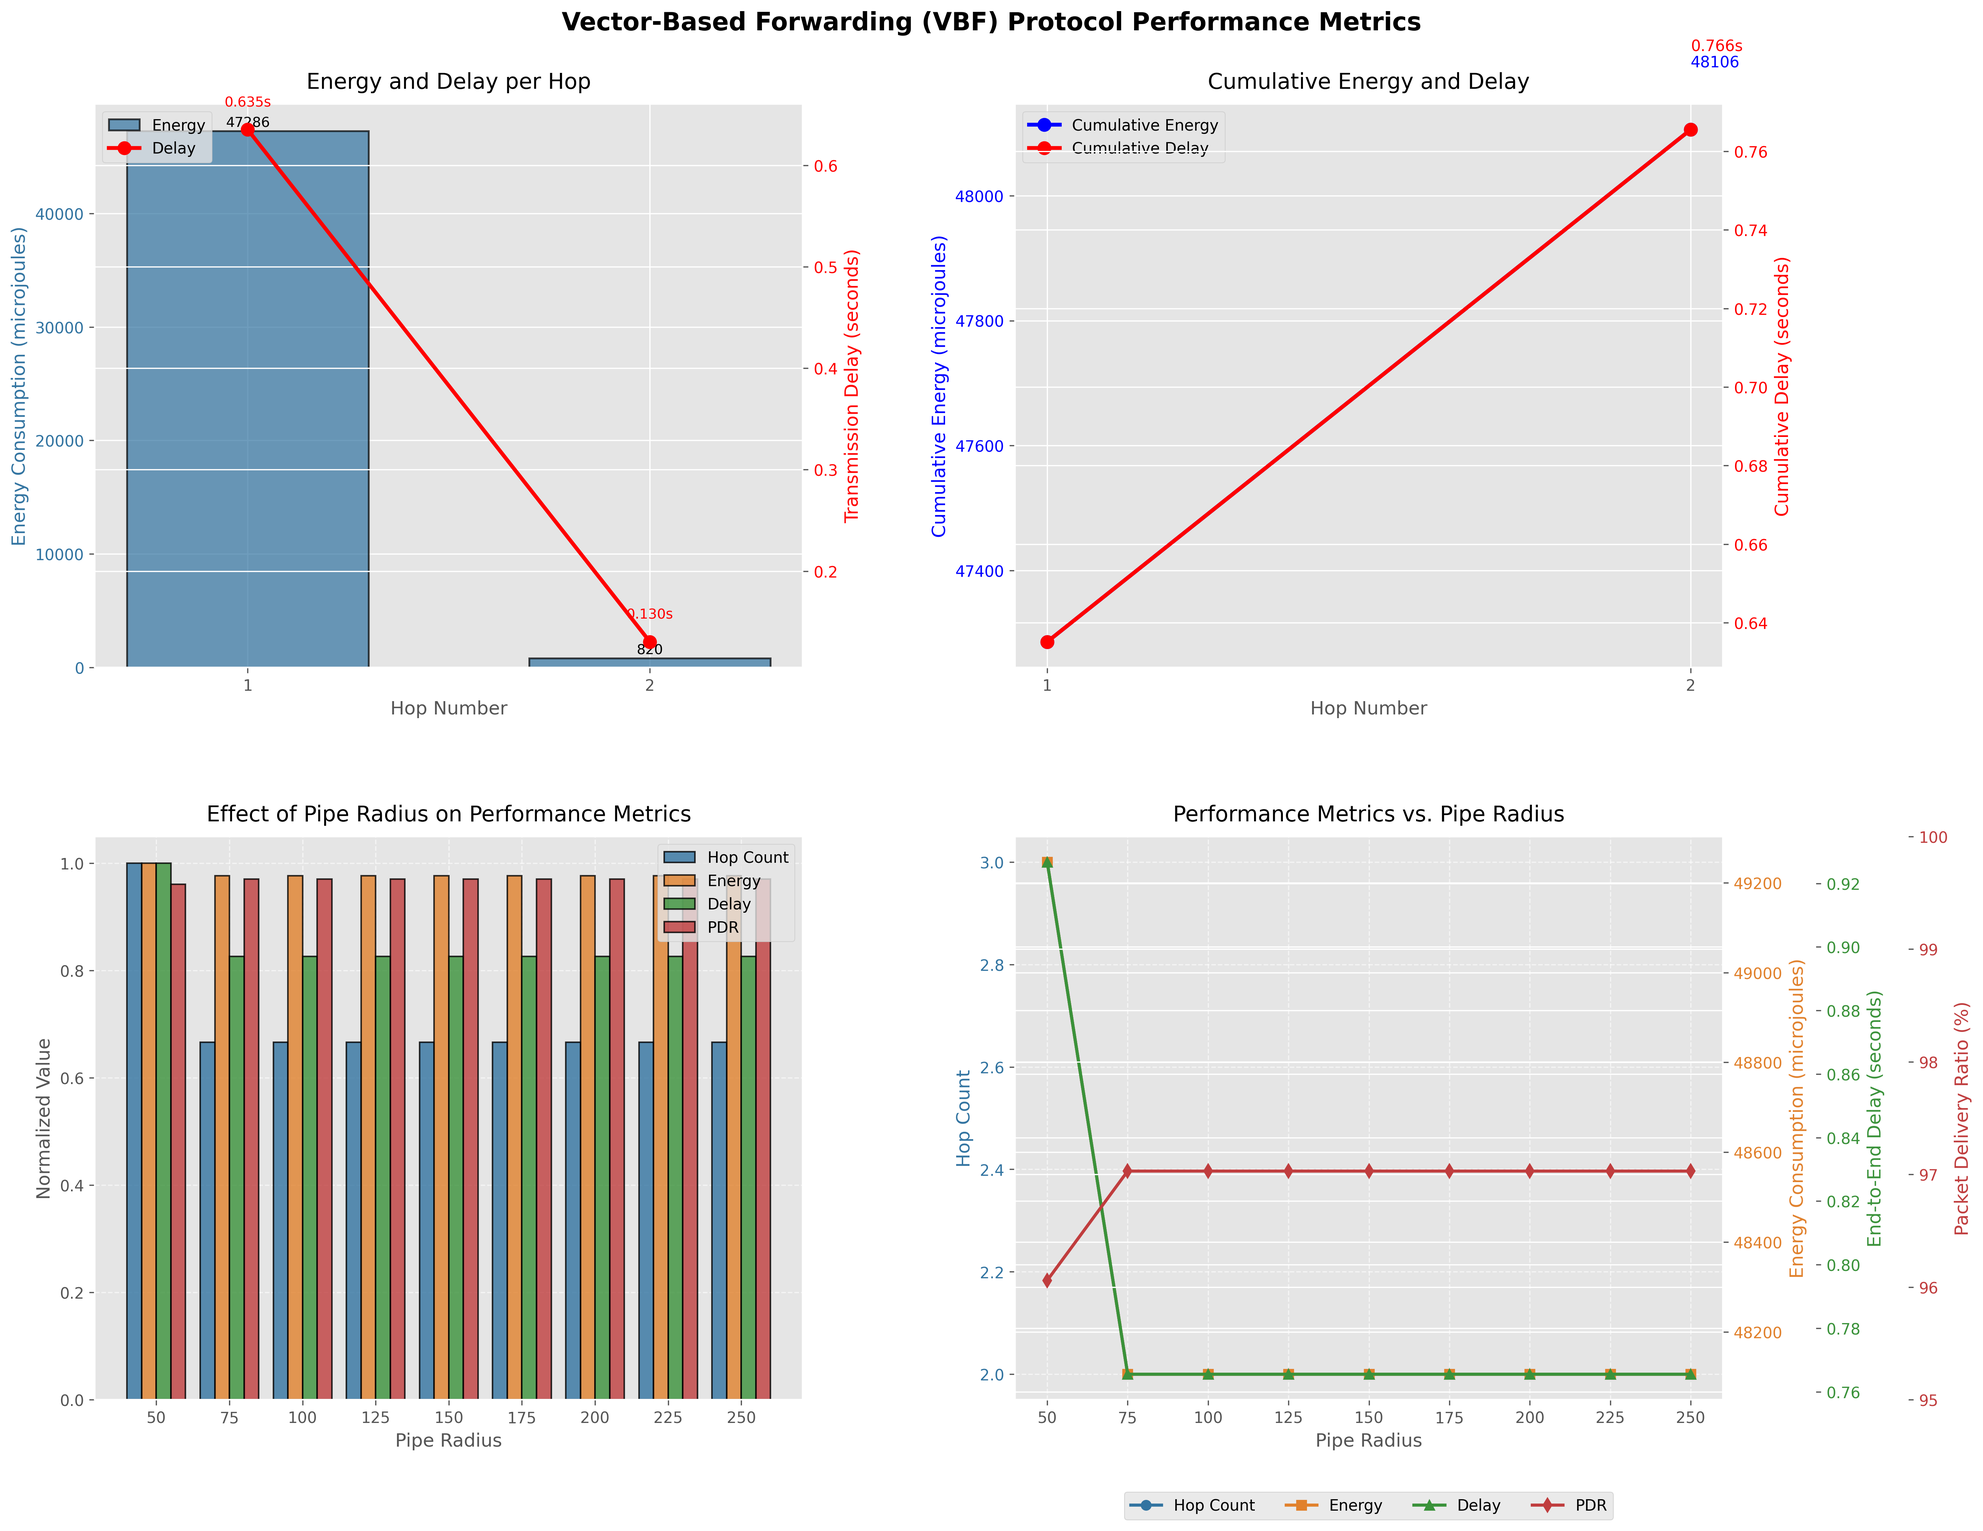
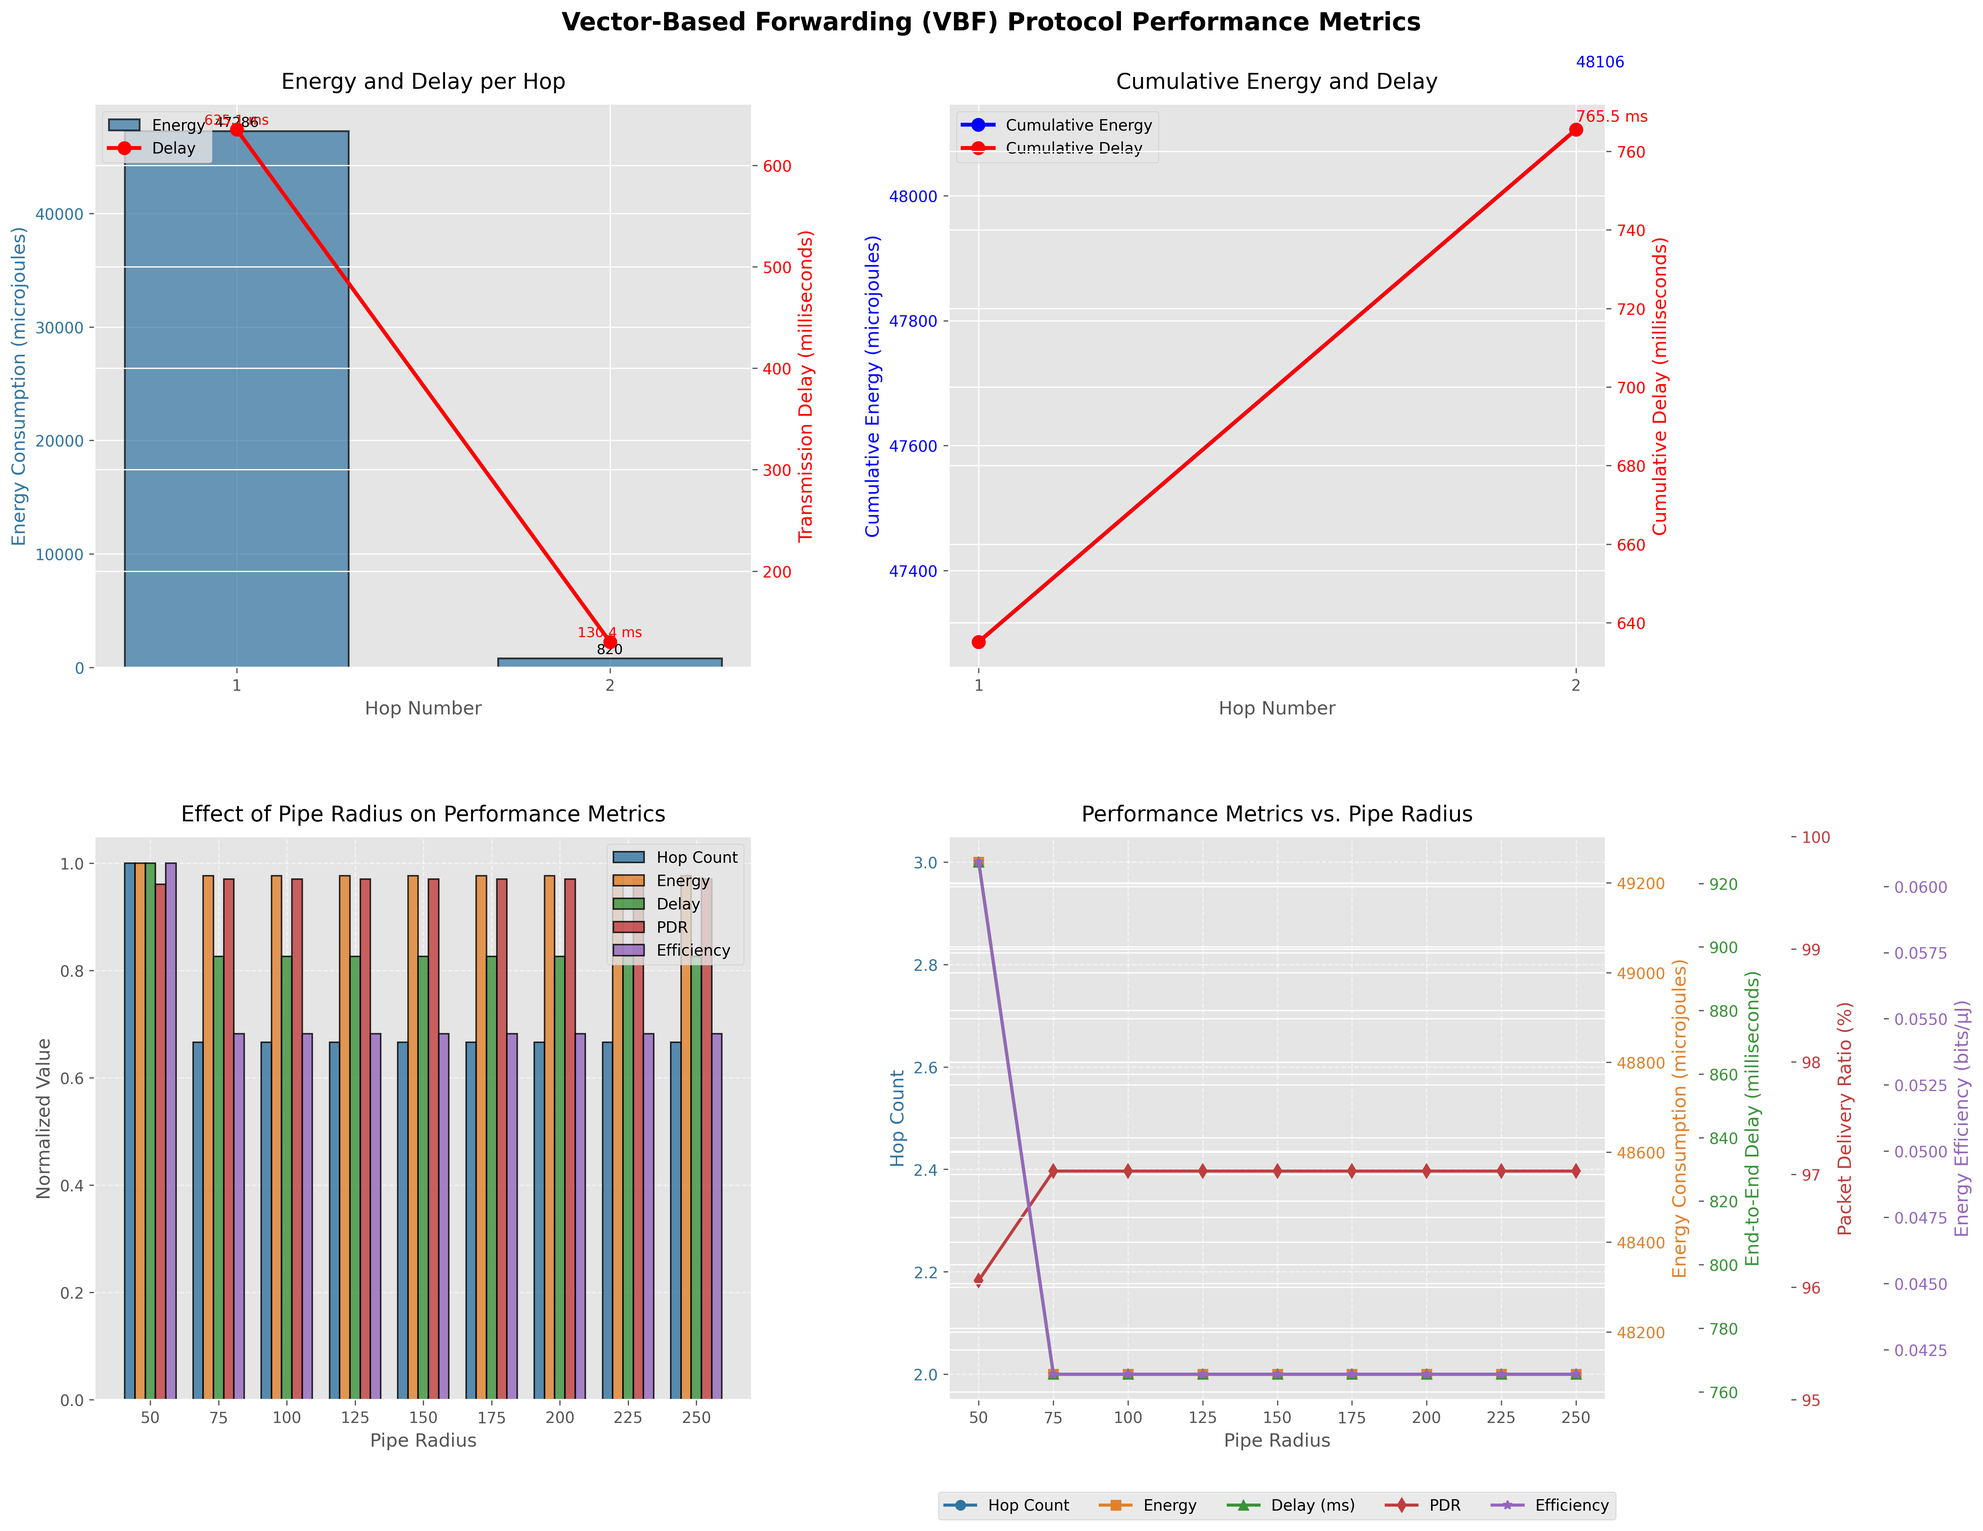
modification in the vbf protocol like adding energy efficiency matrix and delay in milisecond

diff --git a/vbf_simulation.py b/vbf_simulation.py
@@ -42,10 +42,12 @@ class VBFSimulation:
         
         # Performance metrics
         self.energy_consumption = 0
-        self.transmission_delays = []
-        self.total_delay = 0
+        self.transmission_delays = []  # In milliseconds
+        self.total_delay = 0  # In milliseconds
         self.packet_delivery_ratio = 0
         self.hop_count = len(self.path) - 1
+        self.throughput = 0  # Added throughput metric
+        self.energy_efficiency = 0  # Added energy efficiency metric (bits/μJ)
         
         # Calculate performance metrics
         self._calculate_performance_metrics()
@@ -379,22 +381,23 @@ class VBFSimulation:
         
         # Calculate energy and delay for each hop
         total_energy = 0
-        total_delay = 0
-        hop_delays = []
+        total_delay_ms = 0
+        hop_delays_ms = []
         
         for i in range(len(self.path) - 1):
             # Distance for this hop
             hop_distance = np.linalg.norm(self.path[i+1] - self.path[i])
             
-            # Transmission delay components
+            # Transmission delay components (in seconds)
             transmission_time = packet_size / data_rate  # time to transmit the packet
             propagation_time = hop_distance / propagation_speed  # time for signal to travel
             processing_delay = 0.01  # seconds (fixed processing overhead)
             
-            # Total delay for this hop
-            hop_delay = transmission_time + propagation_time + processing_delay
-            hop_delays.append(hop_delay)
-            total_delay += hop_delay
+            # Total delay for this hop (convert to milliseconds)
+            hop_delay_sec = transmission_time + propagation_time + processing_delay
+            hop_delay_ms = hop_delay_sec * 1000  # Convert to milliseconds
+            hop_delays_ms.append(hop_delay_ms)
+            total_delay_ms += hop_delay_ms
             
             # Energy for this hop
             tx_energy = transmit_energy_per_bit * packet_size
@@ -408,8 +411,20 @@ class VBFSimulation:
         
         # Store metrics
         self.energy_consumption = total_energy
-        self.transmission_delays = hop_delays
-        self.total_delay = total_delay
+        self.transmission_delays = hop_delays_ms
+        self.total_delay = total_delay_ms
+        
+        # Calculate throughput (bits per second)
+        if total_delay_ms > 0:
+            self.throughput = (packet_size * self.hop_count) / (total_delay_ms / 1000.0)
+        else:
+            self.throughput = 0
+            
+        # Calculate energy efficiency (bits transmitted per microjoule)
+        if total_energy > 0:
+            self.energy_efficiency = (packet_size * self.hop_count) / total_energy
+        else:
+            self.energy_efficiency = 0
         
         # Simulate packet delivery ratio based on path length
         # (longer paths have higher chance of failure)
@@ -430,10 +445,13 @@ class VBFSimulation:
         print("\n--- Energy ---")
         print(f"Total Energy Consumption: {self.energy_consumption:.2f} microjoules")
         print(f"Energy per Hop: {self.energy_consumption/max(1, self.hop_count):.2f} microjoules/hop")
+        print(f"Energy Efficiency: {self.energy_efficiency:.4f} bits/microjoule")
         print("\n--- Delay ---")
-        print(f"Total End-to-End Delay: {self.total_delay:.4f} seconds")
+        print(f"Total End-to-End Delay: {self.total_delay:.2f} milliseconds")
         avg_hop_delay = self.total_delay / max(1, self.hop_count)
-        print(f"Average Delay per Hop: {avg_hop_delay:.4f} seconds/hop")
+        print(f"Average Delay per Hop: {avg_hop_delay:.2f} milliseconds/hop")
+        print("\n--- Throughput ---")
+        print(f"Network Throughput: {self.throughput:.2f} bits/second")
         print("\n--- Reliability ---")
         print(f"Packet Delivery Ratio: {self.packet_delivery_ratio:.4f}")
         print("===========================================\n")
@@ -451,10 +469,13 @@ class VBFSimulation:
             f.write("\n--- Energy ---\n")
             f.write(f"Total Energy Consumption: {self.energy_consumption:.2f} microjoules\n")
             f.write(f"Energy per Hop: {self.energy_consumption/max(1, self.hop_count):.2f} microjoules/hop\n")
+            f.write(f"Energy Efficiency: {self.energy_efficiency:.4f} bits/microjoule\n")
             f.write("\n--- Delay ---\n")
-            f.write(f"Total End-to-End Delay: {self.total_delay:.4f} seconds\n")
+            f.write(f"Total End-to-End Delay: {self.total_delay:.2f} milliseconds\n")
             avg_hop_delay = self.total_delay / max(1, self.hop_count)
-            f.write(f"Average Delay per Hop: {avg_hop_delay:.4f} seconds/hop\n")
+            f.write(f"Average Delay per Hop: {avg_hop_delay:.2f} milliseconds/hop\n")
+            f.write("\n--- Throughput ---\n")
+            f.write(f"Network Throughput: {self.throughput:.2f} bits/second\n")
             f.write("\n--- Reliability ---\n")
             f.write(f"Packet Delivery Ratio: {self.packet_delivery_ratio:.4f}\n")
             
@@ -464,21 +485,29 @@ class VBFSimulation:
                 hop_distance = np.linalg.norm(self.path[i+1] - self.path[i])
                 f.write(f"\nHop {i+1}:\n")
                 f.write(f"  Distance: {hop_distance:.2f} units\n")
-                f.write(f"  Delay: {self.transmission_delays[i]:.4f} seconds\n")
+                f.write(f"  Delay: {self.transmission_delays[i]:.2f} milliseconds\n")
                 
                 # Calculate energy for this hop
                 transmit_energy = 0.5 * 1000  # transmit_energy_per_bit * packet_size
                 receive_energy = 0.25 * 1000  # receive_energy_per_bit * packet_size
                 hop_energy = (transmit_energy + receive_energy) * (1 + (hop_distance / 100) ** 2)
                 f.write(f"  Energy: {hop_energy:.2f} microjoules\n")
+                
+                # Calculate and add throughput for this hop
+                hop_throughput = 1000 / (self.transmission_delays[i] / 1000.0) if self.transmission_delays[i] > 0 else 0
+                f.write(f"  Throughput: {hop_throughput:.2f} bits/second\n")
+                
+                # Calculate and add energy efficiency for this hop
+                hop_efficiency = 1000 / hop_energy if hop_energy > 0 else 0
+                f.write(f"  Energy Efficiency: {hop_efficiency:.4f} bits/microjoule\n")
             
+            # Add comparative data for different pipe radii
             f.write("\n===== COMPARATIVE ANALYSIS =====\n")
             f.write("Effect of pipe radius on performance metrics:\n\n")
             
-            # Add comparative data for different pipe radii
             pipe_radii = [50, 100, 150, 200, 250]
-            f.write("Pipe Radius | Hop Count | Path Length | Energy | Delay | PDR\n")
-            f.write("--------------------------------------------------------\n")
+            f.write("Pipe Radius | Hop Count | Path Length | Energy | Delay (ms) | Throughput | Efficiency | PDR\n")
+            f.write("-------------------------------------------------------------------------------------\n")
             
             # Store current pipe radius
             original_radius = self.pipe_radius
@@ -494,7 +523,7 @@ class VBFSimulation:
                 
                 # Write the metrics
                 path_length = self._calculate_path_length()
-                f.write(f"{radius:11d} | {self.hop_count:9d} | {path_length:11.1f} | {self.energy_consumption:6.0f} | {self.total_delay:5.3f} | {self.packet_delivery_ratio:.4f}\n")
+                f.write(f"{radius:11d} | {self.hop_count:9d} | {path_length:11.1f} | {self.energy_consumption:6.0f} | {self.total_delay:9.1f} | {self.throughput:10.0f} | {self.energy_efficiency:.4f} | {self.packet_delivery_ratio:.4f}\n")
             
             # Restore original radius
             self.pipe_radius = original_radius
@@ -556,18 +585,18 @@ class VBFSimulation:
                     f'{energy:.0f}',
                     ha='center', va='bottom', fontsize=9, rotation=0)
         
-        # Plot delay line with improved style
+        # Plot delay line with improved style - now in milliseconds
         line = ax1_twin.plot(hop_indices, self.transmission_delays, 'ro-', 
                             linewidth=2.5, markersize=8, label='Delay')
         
-        # Add delay values
+        # Add delay values (now in ms)
         for i, delay in enumerate(self.transmission_delays):
-            ax1_twin.text(hop_indices[i], delay + 0.02, f'{delay:.3f}s', 
+            ax1_twin.text(hop_indices[i], delay + 2, f'{delay:.1f} ms', 
                          ha='center', va='bottom', fontsize=9, color='red')
         
         ax1.set_xlabel('Hop Number', fontsize=12)
         ax1.set_ylabel('Energy Consumption (microjoules)', fontsize=12, color='#3274A1')
-        ax1_twin.set_ylabel('Transmission Delay (seconds)', fontsize=12, color='red')
+        ax1_twin.set_ylabel('Transmission Delay (milliseconds)', fontsize=12, color='red')
         ax1.tick_params(axis='y', labelcolor='#3274A1')
         ax1_twin.tick_params(axis='y', labelcolor='red')
         ax1.set_title('Energy and Delay per Hop', fontsize=14, pad=10)
@@ -597,12 +626,12 @@ class VBFSimulation:
         # Add data labels to the last point
         ax2.text(hop_indices[-1], cumulative_energy[-1] + 100, 
                 f'{cumulative_energy[-1]:.0f}', color='blue', fontsize=10)
-        ax2_twin.text(hop_indices[-1], cumulative_delay[-1] + 0.02, 
-                     f'{cumulative_delay[-1]:.3f}s', color='red', fontsize=10)
+        ax2_twin.text(hop_indices[-1], cumulative_delay[-1] + 2, 
+                     f'{cumulative_delay[-1]:.1f} ms', color='red', fontsize=10)
         
         ax2.set_xlabel('Hop Number', fontsize=12)
         ax2.set_ylabel('Cumulative Energy (microjoules)', fontsize=12, color='blue')
-        ax2_twin.set_ylabel('Cumulative Delay (seconds)', fontsize=12, color='red')
+        ax2_twin.set_ylabel('Cumulative Delay (milliseconds)', fontsize=12, color='red')
         ax2.tick_params(axis='y', labelcolor='blue')
         ax2_twin.tick_params(axis='y', labelcolor='red')
         ax2.set_title('Cumulative Energy and Delay', fontsize=14, pad=10)
@@ -626,6 +655,7 @@ class VBFSimulation:
         energy_values = []
         delay_values = []
         pdr_values = []
+        efficiency_values = []
         
         # Store current pipe radius
         original_radius = self.pipe_radius
@@ -645,6 +675,7 @@ class VBFSimulation:
             energy_values.append(self.energy_consumption)
             delay_values.append(self.total_delay)
             pdr_values.append(self.packet_delivery_ratio)
+            efficiency_values.append(self.energy_efficiency)
         
         # Restore original radius
         self.pipe_radius = original_radius
@@ -656,18 +687,20 @@ class VBFSimulation:
         
         # X-axis positions for the bar chart
         x = np.arange(len(pipe_radii))
-        width = 0.2
+        width = 0.15  # Narrower to fit more bars
         
         # Plot bars for each metric with improved colors and style
-        colors = ['#3274A1', '#E1812C', '#3A923A', '#C03D3E']
-        bars1 = ax3.bar(x - width*1.5, [h/max(hop_counts) for h in hop_counts], width, 
+        colors = ['#3274A1', '#E1812C', '#3A923A', '#C03D3E', '#9467BD']
+        bars1 = ax3.bar(x - width*2, [h/max(hop_counts) for h in hop_counts], width, 
                        color=colors[0], alpha=0.8, edgecolor='black', linewidth=1, label='Hop Count')
-        bars2 = ax3.bar(x - width/2, [e/max(energy_values) for e in energy_values], width, 
+        bars2 = ax3.bar(x - width, [e/max(energy_values) for e in energy_values], width, 
                        color=colors[1], alpha=0.8, edgecolor='black', linewidth=1, label='Energy')
-        bars3 = ax3.bar(x + width/2, [d/max(delay_values) for d in delay_values], width, 
+        bars3 = ax3.bar(x, [d/max(delay_values) for d in delay_values], width, 
                        color=colors[2], alpha=0.8, edgecolor='black', linewidth=1, label='Delay')
-        bars4 = ax3.bar(x + width*1.5, pdr_values, width, 
+        bars4 = ax3.bar(x + width, pdr_values, width, 
                        color=colors[3], alpha=0.8, edgecolor='black', linewidth=1, label='PDR')
+        bars5 = ax3.bar(x + width*2, [eff/max(efficiency_values) for eff in efficiency_values], width,
+                      color=colors[4], alpha=0.8, edgecolor='black', linewidth=1, label='Efficiency')
         
         ax3.set_xlabel('Pipe Radius', fontsize=12)
         ax3.set_ylabel('Normalized Value', fontsize=12)
@@ -695,10 +728,10 @@ class VBFSimulation:
         
         # Plot energy and delay
         ax4_2.plot(pipe_radii, energy_values, 's-', color=colors[1], linewidth=2, label='Energy')
-        ax4_3.plot(pipe_radii, delay_values, '^-', color=colors[2], linewidth=2, label='Delay')
+        ax4_3.plot(pipe_radii, delay_values, '^-', color=colors[2], linewidth=2, label='Delay (ms)')
         
         ax4_2.set_ylabel('Energy Consumption (microjoules)', fontsize=12, color=colors[1])
-        ax4_3.set_ylabel('End-to-End Delay (seconds)', fontsize=12, color=colors[2])
+        ax4_3.set_ylabel('End-to-End Delay (milliseconds)', fontsize=12, color=colors[2])
         
         ax4_2.tick_params(axis='y', labelcolor=colors[1])
         ax4_3.tick_params(axis='y', labelcolor=colors[2])
@@ -711,19 +744,48 @@ class VBFSimulation:
         ax4_4.tick_params(axis='y', labelcolor=colors[3])
         ax4_4.set_ylim([95, 100])  # Set a more useful range for PDR percentage
         
+        # Add energy efficiency on another axis
+        ax4_5 = ax4.twinx()
+        ax4_5.spines['right'].set_position(('outward', 180))
+        ax4_5.plot(pipe_radii, efficiency_values, '*-', color=colors[4], linewidth=2, label='Efficiency')
+        ax4_5.set_ylabel('Energy Efficiency (bits/μJ)', fontsize=12, color=colors[4])
+        ax4_5.tick_params(axis='y', labelcolor=colors[4])
+        
         # Combined legend
         lines1, labels1 = ax4.get_legend_handles_labels()
         lines2, labels2 = ax4_2.get_legend_handles_labels()
         lines3, labels3 = ax4_3.get_legend_handles_labels()
         lines4, labels4 = ax4_4.get_legend_handles_labels()
+        lines5, labels5 = ax4_5.get_legend_handles_labels()
         
-        ax4.legend(lines1 + lines2 + lines3 + lines4, 
-                 labels1 + labels2 + labels3 + labels4, 
+        ax4.legend(lines1 + lines2 + lines3 + lines4 + lines5, 
+                 labels1 + labels2 + labels3 + labels4 + labels5, 
                  loc='upper center', bbox_to_anchor=(0.5, -0.15), 
-                 ncol=4, frameon=True, fontsize=10)
+                 ncol=5, frameon=True, fontsize=10)
         
         ax4.set_title('Performance Metrics vs. Pipe Radius', fontsize=14, pad=10)
         ax4.grid(True, linestyle='--', alpha=0.6)
+        
+        # Create a separate figure for energy efficiency
+        fig_efficiency = plt.figure(figsize=(10, 6))
+        ax_efficiency = fig_efficiency.add_subplot(111)
+        
+        # Plot energy efficiency vs pipe radius
+        ax_efficiency.plot(pipe_radii, efficiency_values, 'ko-', linewidth=2.5, markersize=10, label='Energy Efficiency')
+        for i, val in enumerate(efficiency_values):
+            ax_efficiency.text(pipe_radii[i], val + 0.002, f'{val:.4f}', ha='center', fontsize=9)
+            
+        ax_efficiency.set_xlabel('Pipe Radius', fontsize=12)
+        ax_efficiency.set_ylabel('Energy Efficiency (bits/microjoule)', fontsize=12)
+        ax_efficiency.set_title('Energy Efficiency vs Pipe Radius', fontsize=14)
+        ax_efficiency.grid(True, linestyle='--', alpha=0.6)
+        ax_efficiency.legend(loc='best')
+        
+        plt.tight_layout()
+        plt.savefig('vbf_energy_efficiency_analysis.png', dpi=300, bbox_inches='tight')
+        
+        # Return to the main figure
+        plt.figure(fig.number)
         
         plt.tight_layout()
         plt.subplots_adjust(top=0.92, hspace=0.3, wspace=0.3)
